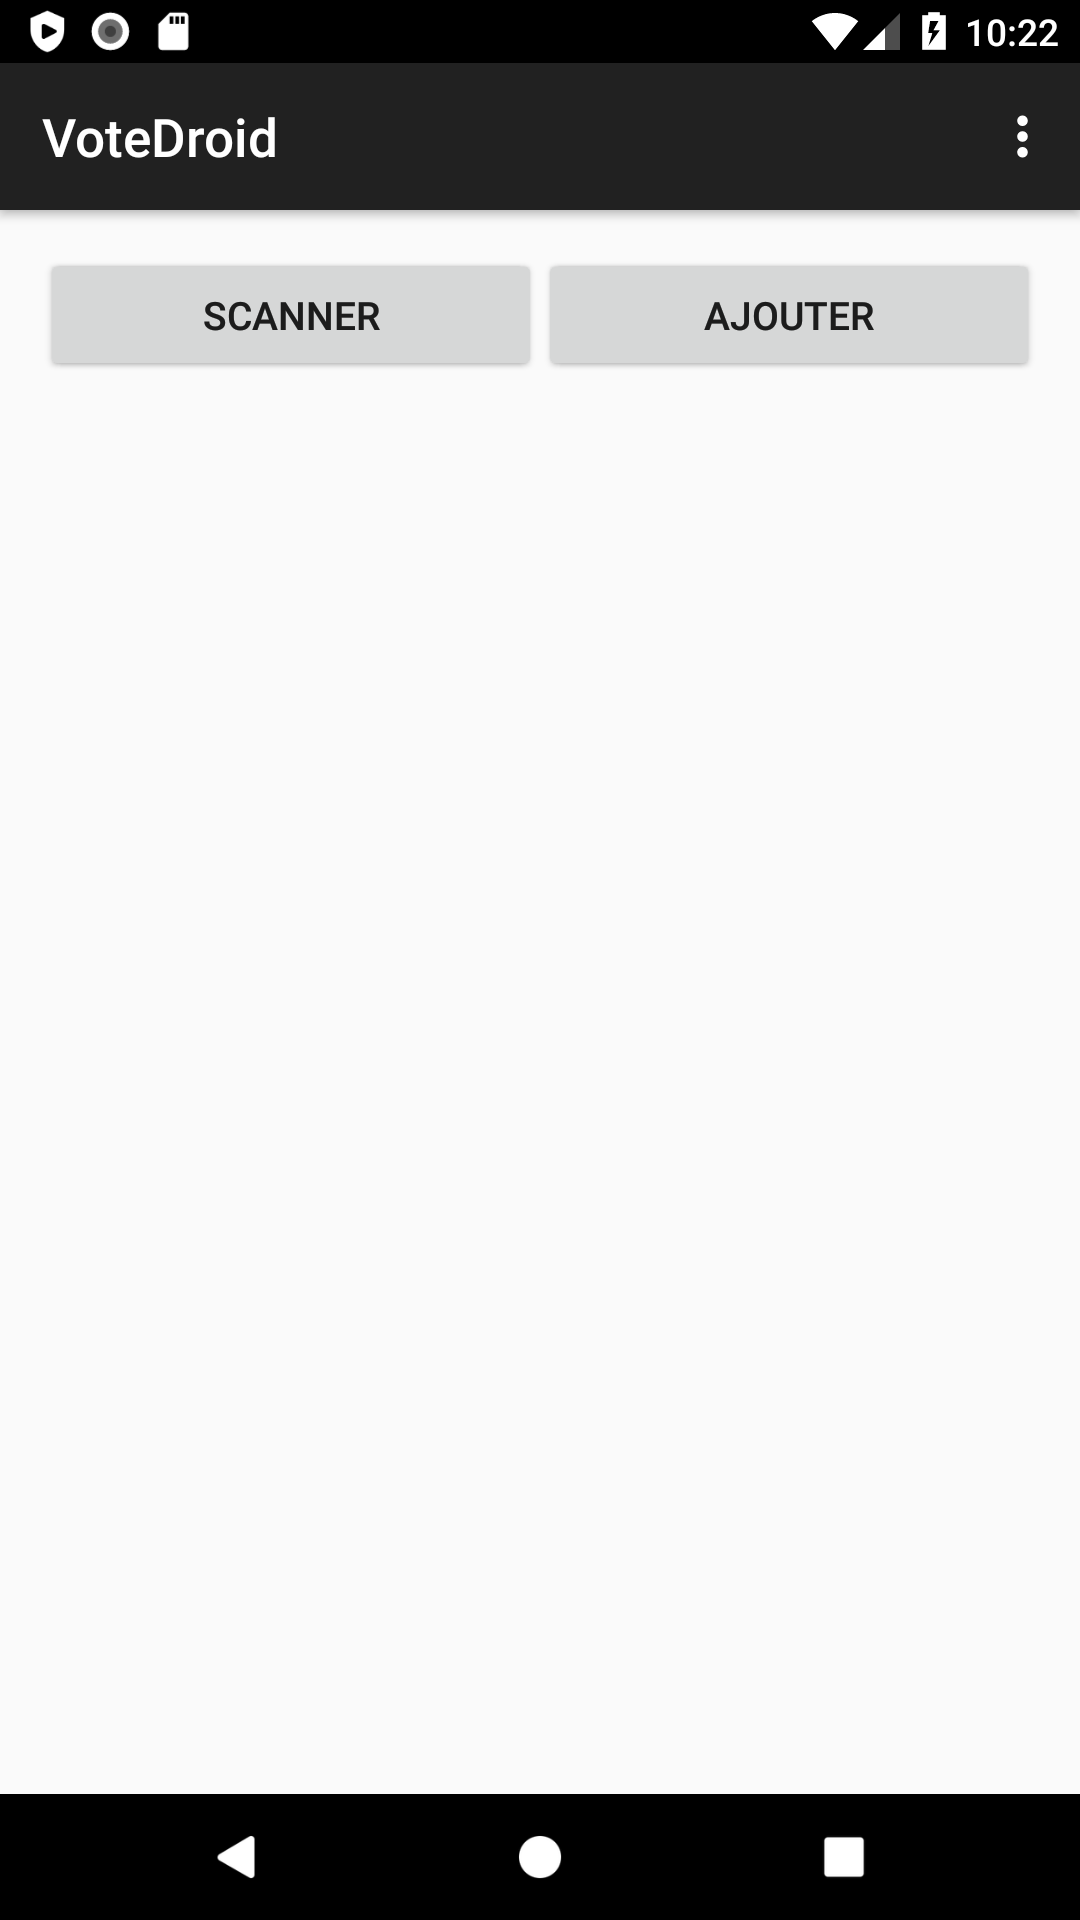
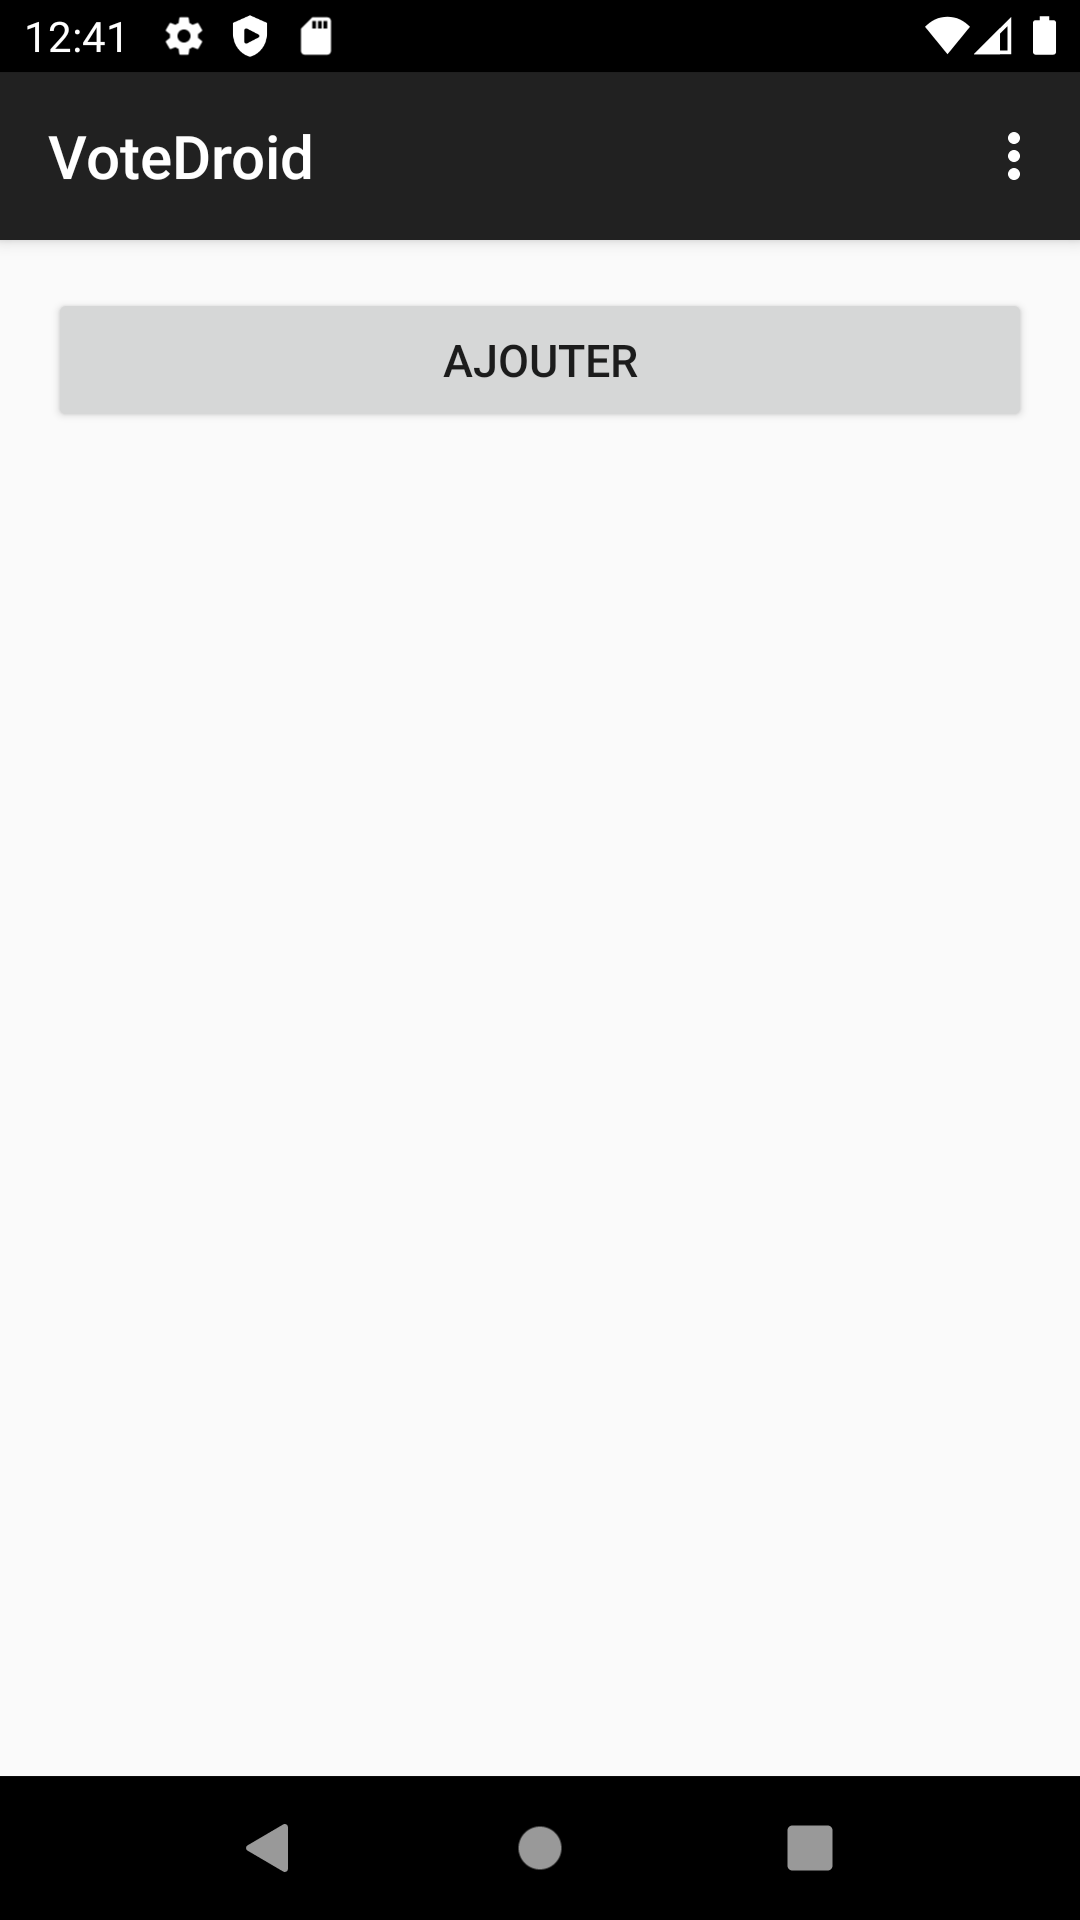
Modif TP3
Ajout git
Retrait scanner
Nouvelles captures écrans

Changed region(s): [[0.0, 0.0, 1.0, 0.2188], [0.0, 0.9062, 1.0, 1.0]]

diff --git a/phase3.html b/phase3.html
@@ -44,6 +44,14 @@
     <div class="container">
         <div class="row mb-3">
             <div class="col-xs-6 ">
+                <h3>Git et suivi du code</h3>
+                <div>
+                    <span class="label label-success">1 point</span> Le nom du repo est <em>A20-4203N5-VotoDroid-Dupont</em> (remplace Dupont par ton nom de famille) sur github. (Instructions : <b><a href="git.html">ici</a></b> & <b><a href="introduction.html">ici</a></b> ) Tu dois ajouter le professeur dans les collaborateurs ayant accès en lecture à ton repository.
+                </div>
+                <div>
+                    <span class="label label-success">3 points</span> Un minimum de 8 commits de tailles comparables (il n'y a pas un commit avec tout dedans et les autres vides) décrivant l'avancement du projet dans un français correct (passe Word).
+                </div>
+                
                 <h3>Activité d'accueil</h3>
                 <h4>Mise en page</h4>
                 <p>
@@ -52,10 +60,6 @@
                 <h4>Boutons</h4>
                 <p>
                     <span class="label label-success">1 point</span> les boutons fonctionnement. Scanner doit démarrer l'application de lecture de codes QR. Ajouter doit amener à l'activité de création d'une question.
-                </p>
-                <h4>Code QR</h4>
-                <p>
-                    <span class="label label-success">2 points </span> Si le code QR représente une question valide (voir critères TP2), une nouvelle question est créée en base de données.
                 </p>
             </div>
             
@@ -200,10 +204,6 @@
                     <li>autre cas ...</li> 
                 </ul>
                 
-                <h3>Feuille de code QR (Quick Response)</h3>
-                <p>
-                    Une page <a class="btn btn-danger btn-block" href="phase3-produit.html">ici</a> avec des codes QR pour tester la fonctionnalité de scan.
-                </p>
             </div>
         </div>
     </div>
